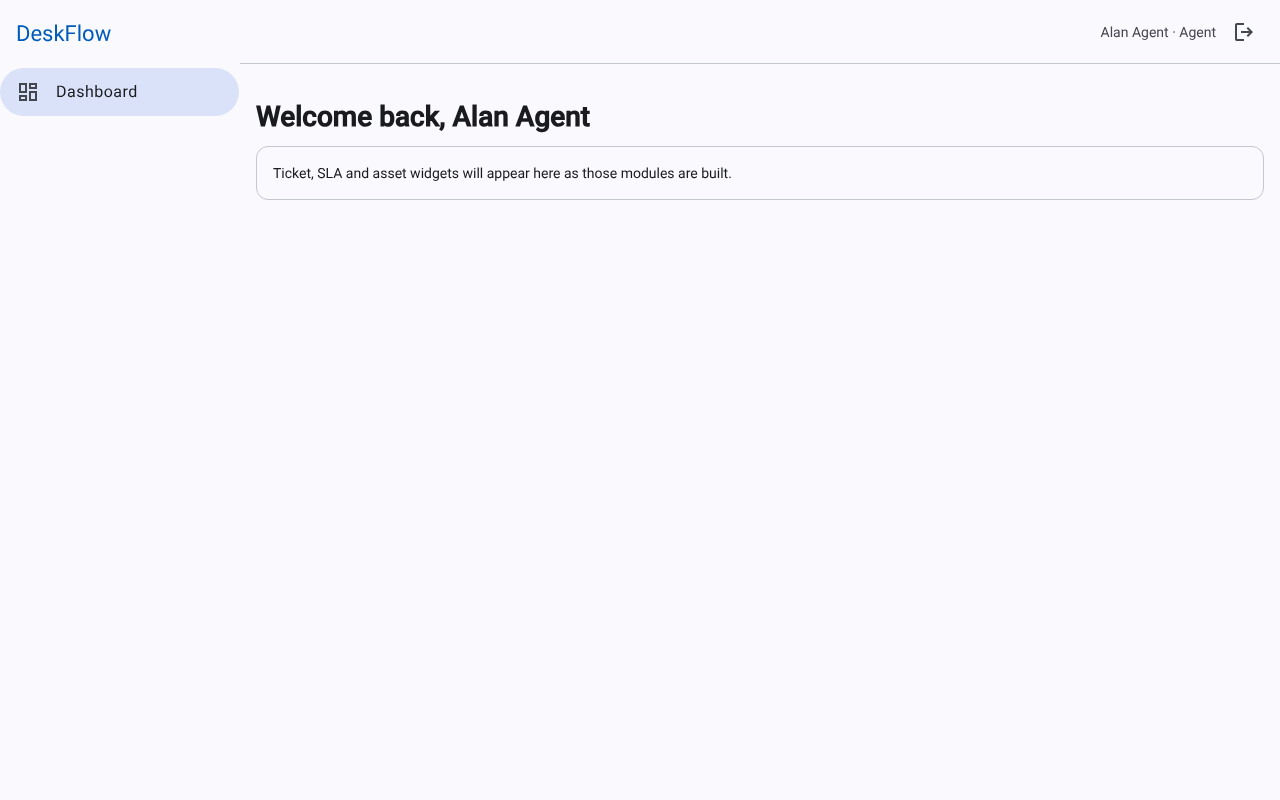
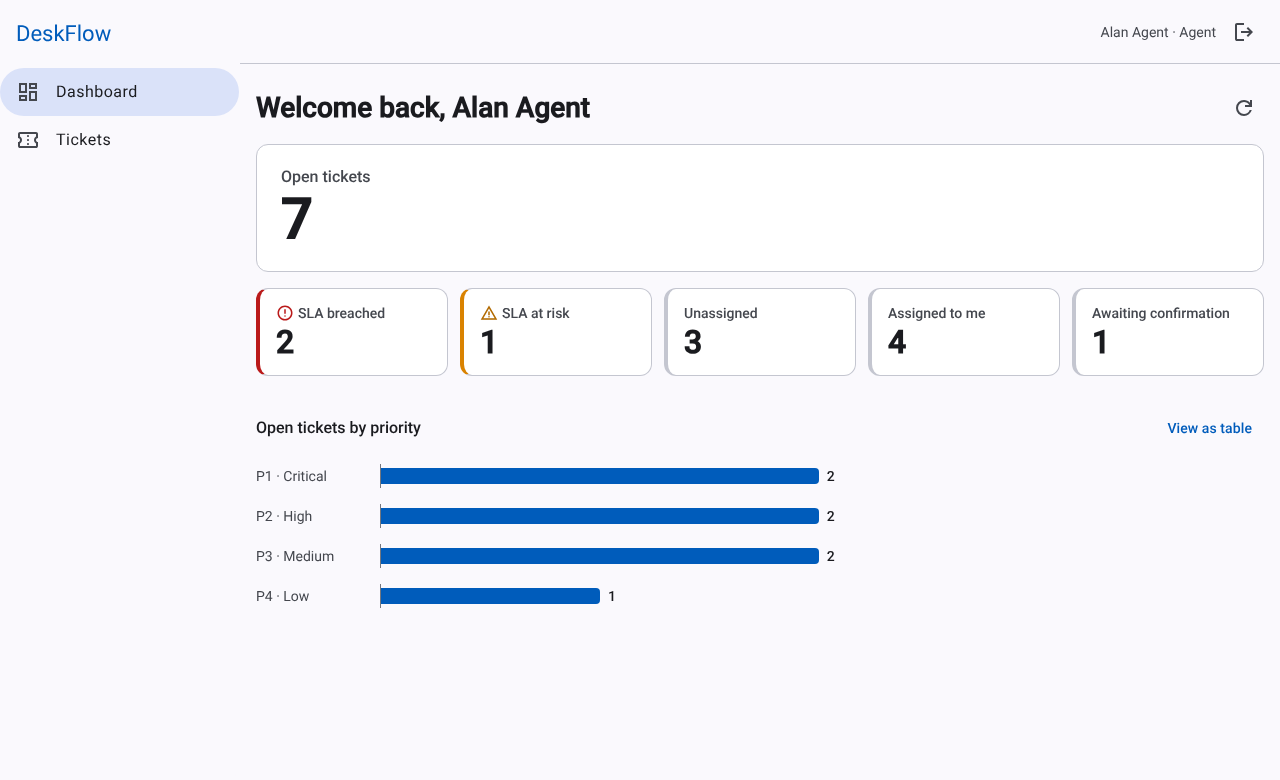
Document SLA rules, dashboard and worker setup

diff --git a/README.md b/README.md
@@ -7,8 +7,9 @@
 Built with **Angular 22**, **FastAPI**, **PostgreSQL** and **Redis**, containerised with Docker and deployed on Railway.
 
 <p>
-  <img src="docs/screenshots/tickets.png" width="49%" alt="Ticket list with filters, status and priority badges" />
-  <img src="docs/screenshots/ticket-detail.png" width="49%" alt="Ticket detail with conversation, internal note, assignment and history" />
+  <img src="docs/screenshots/dashboard.png" width="32%" alt="Dashboard with open tickets, SLA tiles and a priority chart" />
+  <img src="docs/screenshots/tickets.png" width="32%" alt="Ticket list with SLA status, filters and priority badges" />
+  <img src="docs/screenshots/ticket-detail.png" width="32%" alt="Ticket detail with service-level panel, conversation and history" />
 </p>
 
 ## Features
@@ -17,11 +18,11 @@ Built with **Angular 22**, **FastAPI**, **PostgreSQL** and **Redis**, containeri
 |---|---|
 | Authentication: JWT access and refresh tokens, role-based access (Requester / Agent / Admin) | ✅ |
 | Tickets: status workflow, priorities P1–P4, categories, comments with staff-only internal notes, assignment, search, filters and pagination | ✅ |
-| SLA timers: response and resolution targets per priority, background breach detection, pause while pending | 🚧 |
+| SLA timers: response and resolution targets per priority, clock paused while a ticket is Pending, a background worker that flags tickets at risk or breached | ✅ |
 | Audit log: append-only record of every ticket change (who, what, when, before/after), shown as a per-ticket history for staff and queryable by admins via the API. Admin UI and asset coverage still to come | 🟡 |
 | Hardware inventory: assets, lifecycle status, assignment to users, links to tickets | 🚧 |
 | Knowledge base: Markdown articles, draft/published, Postgres full-text search | 🚧 |
-| Dashboard: open tickets by priority, SLA breaches, personal queue | 🚧 (placeholder) |
+| Dashboard: open tickets, SLA breached / at risk, unassigned, my queue, and a priority chart, with each figure linking to the matching ticket list | ✅ |
 
 **Planned (phase 2):** AI troubleshooting assistant (retrieval over *published* KB articles only, via pgvector), email notifications, CSV asset import/export, attachments.
 
@@ -30,15 +31,29 @@ Built with **Angular 22**, **FastAPI**, **PostgreSQL** and **Redis**, containeri
 - **Workflow:** `New → In progress ⇄ Pending → Resolved → Closed`. Resolved tickets can be reopened, and Closed is final. Invalid moves are rejected with `409`. The rules live in one place, `backend/app/services/workflow.py`.
 - **Roles:** requesters see and edit only their own tickets (and only while still New), can add comments, and can confirm or reopen a resolved ticket. Agents and admins see everything, change priority, assign tickets and write internal notes. Another user's ticket returns `404`, not `403`, so ids can't be probed.
 - **Assignment:** only agents and admins can be assignees. Assigning a New ticket moves it to In progress.
+- **SLA:** each priority has a response and a resolution target, stored as deadlines on the ticket.
+
+  | Priority | First response | Resolution |
+  |---|---|---|
+  | P1 · Critical | 1 h | 4 h |
+  | P2 · High | 4 h | 8 h |
+  | P3 · Medium | 8 h | 24 h |
+  | P4 · Low | 24 h | 72 h |
+
+  The first public reply from staff (not an internal note, and not the requester) stops the response clock. Moving a ticket to **Pending** pauses both clocks, and when it leaves Pending the deadlines move back by the time spent waiting. A ticket is *at risk* once 75% of its resolution window has passed and *breached* when a deadline passes. Times are wall-clock, not business hours. Requesters don't see SLA information.
+- **One source of truth:** `backend/app/services/sla.py` decides every SLA state. The API, the dashboard, the list filter and the worker all call it, so they can't disagree.
 - **Audit trail:** every write records who did it and the before/after values in the same database transaction as the change, so a rolled-back request leaves no trace.
 
 ## Architecture
 
 ```
-            ┌──────────────────────┐        ┌────────────────────┐
- Browser ──▶│ web (nginx + Angular)│──/api─▶│ api (FastAPI)      │──▶ PostgreSQL
-            └──────────────────────┘        │  └ worker (arq)    │──▶ Redis
-                                            └────────────────────┘
+            ┌──────────────────────┐        ┌──────────────────┐
+ Browser ──▶│ web (nginx + Angular)│──/api─▶│ api (FastAPI)    │──┐
+            └──────────────────────┘        └──────────────────┘  ├──▶ PostgreSQL
+                                            ┌──────────────────┐  │
+                                            │ worker (arq)     │──┤
+                                            │ SLA check, 1/min │──┴──▶ Redis
+                                            └──────────────────┘
 ```
 
 - **Same-origin API.** nginx serves the Angular build and reverse-proxies `/api` to the backend, so production needs no CORS. In development, `ng serve` does the same with `proxy.conf.json`.
@@ -79,7 +94,10 @@ uv run alembic upgrade head
 uv run python -m app.seed
 uv run uvicorn app.main:app --reload
 
-# Frontend (second terminal)
+# Background worker for SLA monitoring (needs Redis; optional for local development)
+uv run arq app.worker.WorkerSettings
+
+# Frontend (another terminal)
 cd frontend
 npm install
 npm start          # http://localhost:4200, proxies /api to :8000
@@ -110,7 +128,7 @@ npx ng test --watch=false
 
 ## Deployment (Railway)
 
-The project has one Railway project with four services:
+The project has one Railway project with five services:
 
 1. **PostgreSQL** and **Redis**, from Railway's database templates.
 2. **api**, with root directory `backend/`. Set these variables:
@@ -119,7 +137,8 @@ The project has one Railway project with four services:
    - `JWT_SECRET`: generate with `openssl rand -hex 32`
    - `ENVIRONMENT=production`
    - `PORT=8000`, which pins the port so the web service can reach the API over private networking
-3. **web**, with root directory `frontend/`. Set `API_UPSTREAM=http://${{api.RAILWAY_PRIVATE_DOMAIN}}:8000` and give the service a public domain.
+3. **worker**, with root directory `backend/` and *Config file path* set to `/backend/railway.worker.json`. It starts `arq app.worker.WorkerSettings` instead of the web server. Give it the same `DATABASE_URL` and `REDIS_URL` as the api. It never runs migrations, so deploy the api first.
+4. **web**, with root directory `frontend/`. Set `API_UPSTREAM=http://${{api.RAILWAY_PRIVATE_DOMAIN}}:8000` and give the service a public domain.
 
 On every deploy the api container runs migrations and seeds the demo accounts (set `SEED_DEMO_DATA=false` to disable seeding).
 

diff --git a/CLAUDE.md b/CLAUDE.md
@@ -15,6 +15,9 @@ Guidance for Claude Code when working in this repository.
 - `backend/`: FastAPI + async SQLAlchemy + Alembic, managed with `uv`.
   - Checks: `uv run ruff check . && uv run ruff format --check . && uv run mypy app && uv run pytest`
   - Tests need Postgres with a `deskflow_test` database (`docker compose up -d db`).
+  - Background worker (SLA monitor): `uv run arq app.worker.WorkerSettings`; it needs Redis.
+  - SLA rules live in `app/services/sla.py` and are the single source of truth: the API, the worker
+    and the dashboard all call them, so don't re-implement the state logic elsewhere.
 - `frontend/`: Angular 22 + Angular Material, requires Node >= 22.22.3 (or 24).
   - Checks: `npx prettier --check "src/**/*.{ts,html,scss}" && npx ng test --watch=false && npx ng build`
 - Schema changes go through Alembic migrations (`uv run alembic revision --autogenerate -m "..."`).
